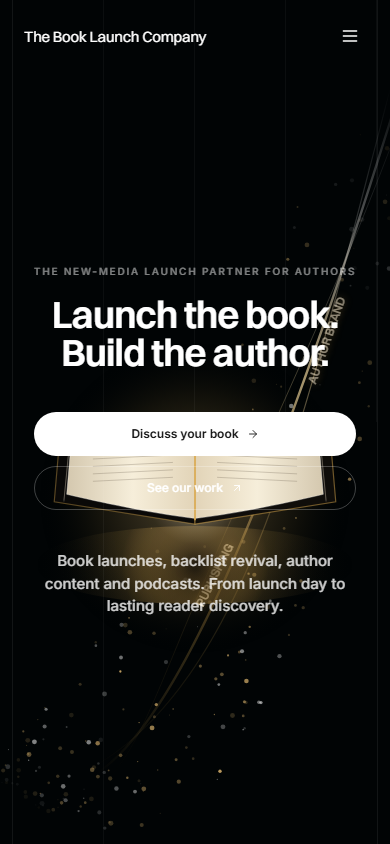
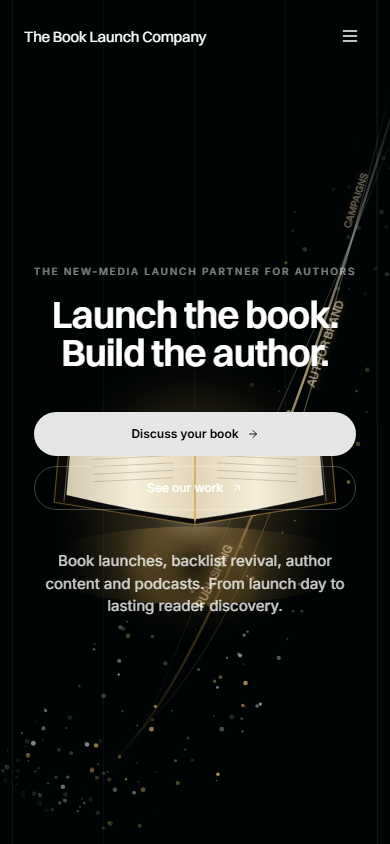
feat: complete pixel-perfect refinement to match DESIGN.md and Atomik Growth reference

diff --git a/src/components/Hero.tsx b/src/components/Hero.tsx
@@ -38,7 +38,7 @@ export const Hero: React.FC<HeroProps> = ({ onOpenBooking }) => {
               <button
                 type="button"
                 onClick={onOpenBooking}
-                className="pill h-11 w-full bg-white px-5 text-[12px] font-semibold text-[#171717] transition-colors hover:bg-[#e9e9e9] sm:w-auto sm:text-[13px] lg:h-10"
+                className="pill h-11 w-full bg-[#E6E6E6] px-5 text-[12px] font-semibold text-[#000000] transition-colors hover:bg-white sm:w-auto sm:text-[13px] lg:h-10"
               >
                 Discuss your book
                 <ArrowRight className="h-3 w-3" strokeWidth={1.8} />
@@ -55,11 +55,31 @@ export const Hero: React.FC<HeroProps> = ({ onOpenBooking }) => {
           </div>
 
           <div className="flex justify-center lg:col-span-5 lg:justify-end lg:pt-[104px] xl:col-span-4">
-            <p className="max-w-[302px] text-center text-[15px] font-medium leading-[1.5] text-white/80 sm:text-base lg:max-w-[288px] lg:text-left lg:font-medium">
+            <p className="max-w-[302px] text-center text-[15px] font-[450] leading-[1.5] text-white/80 sm:text-base lg:max-w-[288px] lg:text-left lg:font-medium">
               Book launches, backlist revival, author content and podcasts. From launch day to
               lasting reader discovery.
             </p>
           </div>
+        </div>
+      </div>
+
+      {/* Bottom Partner Ticker (Atomik Reference Signature Marquee) */}
+      <div
+        aria-hidden="true"
+        className="absolute inset-x-0 bottom-4 z-10 hidden w-full overflow-hidden px-4 [mask-image:linear-gradient(90deg,transparent_0%,black_15%,black_85%,transparent_100%)] [-webkit-mask-image:linear-gradient(90deg,transparent_0%,black_15%,black_85%,transparent_100%)] sm:flex sm:bottom-6 lg:bottom-8 lg:px-8"
+      >
+        <div className="mx-auto flex w-full max-w-shell items-center justify-between gap-6 text-[11px] font-medium tracking-[0.14em] uppercase text-white/40">
+          <span>PENGUIN RANDOM HOUSE</span>
+          <span className="hidden md:inline text-white/20">•</span>
+          <span>HARPERCOLLINS</span>
+          <span className="hidden md:inline text-white/20">•</span>
+          <span>SIMON &amp; SCHUSTER</span>
+          <span className="hidden md:inline text-white/20">•</span>
+          <span>MACMILLAN</span>
+          <span className="hidden lg:inline text-white/20">•</span>
+          <span className="hidden lg:inline">BLOOMSBURY</span>
+          <span className="hidden xl:inline text-white/20">•</span>
+          <span className="hidden xl:inline">HACHETTE</span>
         </div>
       </div>
     </section>

diff --git a/src/components/ProofStrip.tsx b/src/components/ProofStrip.tsx
@@ -16,7 +16,7 @@ const PARTNERS = [
 
 export const ProofStrip: React.FC = () => {
   return (
-    <section className="bg-white text-black py-20 sm:py-28 border-b border-black/10" aria-label="Publishing Partners & Client Titles">
+    <section id="proof" className="bg-[#FAFAFA] text-[#171717] py-20 sm:py-28 border-b border-black/10" aria-label="Publishing Partners & Client Titles">
       <div className="mx-auto w-[calc(100%_-_32px)] max-w-shell">
         
         {/* Section Header */}
@@ -27,7 +27,7 @@ export const ProofStrip: React.FC = () => {
         </div>
 
         {/* Clean Logo / Title Proof Grid (Atomik Growth Reference Signature) */}
-        <div className="grid grid-cols-2 sm:grid-cols-3 lg:grid-cols-5 border-t border-l border-black/10">
+        <div className="grid grid-cols-2 md:grid-cols-5 border-t border-l border-black/10">
           {PARTNERS.map((partner, idx) => (
             <div
               key={idx}

diff --git a/src/components/ClosingCTA.tsx b/src/components/ClosingCTA.tsx
@@ -8,7 +8,7 @@ interface ClosingCTAProps {
 
 export const ClosingCTA: React.FC<ClosingCTAProps> = ({ onOpenBooking }) => {
   return (
-    <section className="bg-[#010405] text-white py-32 sm:py-44 relative overflow-hidden" aria-label="Work With Us">
+    <section id="footer-cta" className="bg-[#010202] text-white py-32 sm:py-44 relative overflow-hidden" aria-label="Work With Us">
       {/* Central Illuminated Sphere / Atmospheric Horizon Glow */}
       <div 
         className="absolute top-1/2 left-1/2 -translate-x-1/2 -translate-y-1/2 w-[700px] h-[500px] bg-gradient-to-b from-[#0072F5]/15 via-[#F59E0B]/10 to-transparent rounded-full blur-[140px] pointer-events-none" 

diff --git a/src/components/FounderSection.tsx b/src/components/FounderSection.tsx
@@ -8,7 +8,7 @@ interface FounderSectionProps {
 
 export const FounderSection: React.FC<FounderSectionProps> = ({ onOpenBooking }) => {
   return (
-    <section id="media" className="bg-white text-black py-24 sm:py-32 border-b border-black/10" aria-label="Our Media Engine">
+    <section id="media" className="bg-[#FAFAFA] text-[#171717] py-24 sm:py-32 border-b border-black/10" aria-label="Our Media Engine">
       <div className="mx-auto w-[calc(100%_-_32px)] max-w-shell">
         
         <div className="grid grid-cols-1 lg:grid-cols-12 gap-12 lg:gap-16 items-center">

diff --git a/src/components/ServicesBento.tsx b/src/components/ServicesBento.tsx
@@ -10,7 +10,7 @@ export const ServicesBento: React.FC<ServicesProps> = ({ onOpenBooking }) => {
   const [isMuted, setIsMuted] = useState(true);
 
   return (
-    <section id="services" className="bg-white text-black py-24 sm:py-32 border-b border-black/10" aria-label="Our Services">
+    <section id="services" className="bg-[#FAFAFA] text-[#171717] py-24 sm:py-32 border-b border-black/10" aria-label="Our Services">
       <div className="mx-auto w-[calc(100%_-_32px)] max-w-shell">
         
         {/* Section Header (Atomik Reference Thesis Layout) */}

diff --git a/src/components/TestimonialsAndFAQ.tsx b/src/components/TestimonialsAndFAQ.tsx
@@ -42,7 +42,7 @@ export const TestimonialsAndFAQ: React.FC<TestimonialsAndFAQProps> = () => {
   };
 
   return (
-    <section id="faq" className="bg-white text-black py-28 sm:py-36 border-b border-black/10" aria-label="Frequently Asked Questions">
+    <section id="faq" className="bg-[#FAFAFA] text-[#171717] py-28 sm:py-36 border-b border-black/10" aria-label="Frequently Asked Questions">
       <div className="mx-auto w-[calc(100%_-_32px)] max-w-[760px]">
         
         {/* Section Heading (Atomik Reference Minimal FAQs) */}

diff --git a/src/components/CaseStudies.tsx b/src/components/CaseStudies.tsx
@@ -9,7 +9,7 @@ interface CaseStudiesProps {
 
 export const CaseStudies: React.FC<CaseStudiesProps> = ({ onOpenBooking }) => {
   return (
-    <section id="case-studies" className="bg-white text-black py-24 sm:py-32 border-b border-black/10" aria-label="Case Studies">
+    <section id="case-studies" className="bg-[#FAFAFA] text-[#171717] py-24 sm:py-32 border-b border-black/10" aria-label="Case Studies">
       <div className="mx-auto w-[calc(100%_-_32px)] max-w-shell">
         
         {/* Section Header */}
